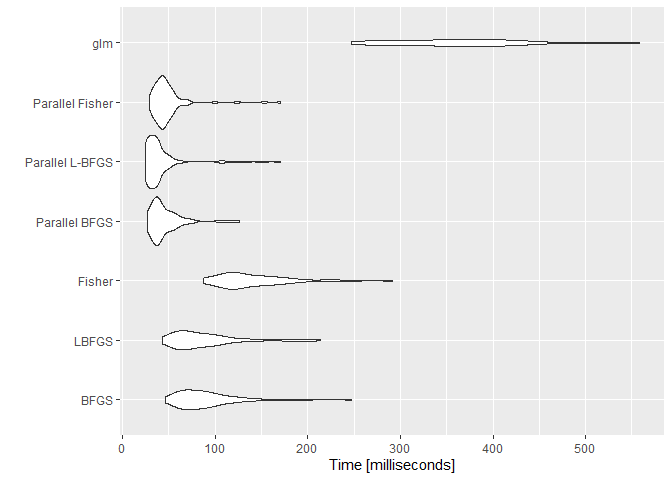
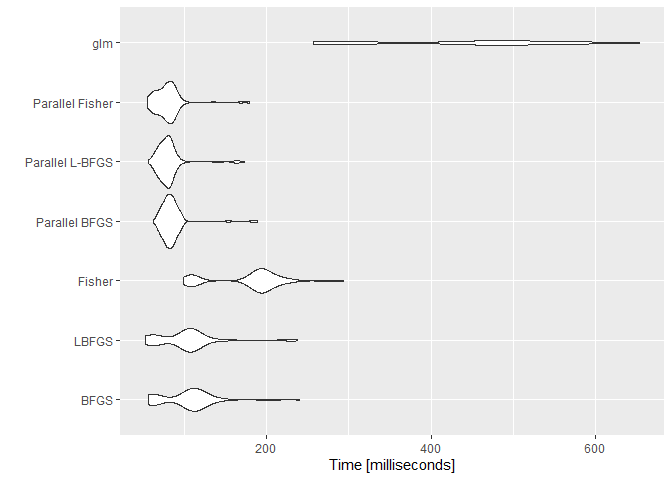
Updating README

diff --git a/README.md b/README.md
@@ -52,7 +52,7 @@ NormalSimul <- function(n, d, Bprob = .5){
 }
 ### Big simulation
 
-df <- NormalSimul(100000, 250)
+df <- NormalSimul(10000, 250)
 
 Times <- microbenchmark("BranchGLM" = {BranchGLM(y ~ ., data = df, 
                                                         family = "gaussian",
@@ -141,11 +141,12 @@ df <- LogisticSimul(1000, 15, .5, sd = .5)
 ### Timing branch and bound
 system.time(BranchVS <- VariableSelection(y ~ ., data = df, 
                                       family = "binomial", link = "logit",
-                  type = "branch and bound", showprogress = FALSE))
+                  type = "branch and bound", showprogress = FALSE,
+                  parallel = FALSE, nthreads = 8, method = "Fisher"))
 ```
 
     ##    user  system elapsed 
-    ##    0.37    0.05    0.42
+    ##    0.43    0.00    0.42
 
 ``` r
 Xy <- cbind(df[,-1], df[,1])
@@ -155,7 +156,7 @@ system.time(BestVS <- bestglm(Xy, family = binomial(), IC = "AIC", TopModels = 1
 ```
 
     ##    user  system elapsed 
-    ##  214.33    0.97  215.64
+    ##  183.67    0.28  184.60
 
 ### Checking results
 
@@ -169,3 +170,38 @@ all(names(coef(BranchVS$finalmodel)) == names(coef(BestVS$BestModel)))
 
 The branch and bound method can be many times faster than an exhaustive
 search and is still guaranteed to find the optimal model.
+
+### Parallel computation
+
+Parallel computation can be used to greatly speed up the branch and
+bound algorithm, especially when the number of variables is large.
+
+``` r
+set.seed(871980)
+
+df <- LogisticSimul(1000, 40, .5, sd = .5)
+
+system.time(BranchVS <- VariableSelection(y ~ ., data = df, 
+                                      family = "binomial", link = "logit",
+                  type = "branch and bound", showprogress = FALSE,
+                  parallel = FALSE, nthreads = 8, method = "Fisher"))
+```
+
+    ##    user  system elapsed 
+    ##  169.25    0.06  169.68
+
+``` r
+system.time(ParBranchVS <- VariableSelection(y ~ ., data = df, 
+                                      family = "binomial", link = "logit",
+                  type = "branch and bound", showprogress = FALSE,
+                  parallel = TRUE, nthreads = 12, method = "Fisher"))
+```
+
+    ##    user  system elapsed 
+    ##  287.37    0.99   36.87
+
+``` r
+all(names(coef(BranchVS$finalmodel)) == names(coef(ParBranchVS$finalmodel)))
+```
+
+    ## [1] TRUE
